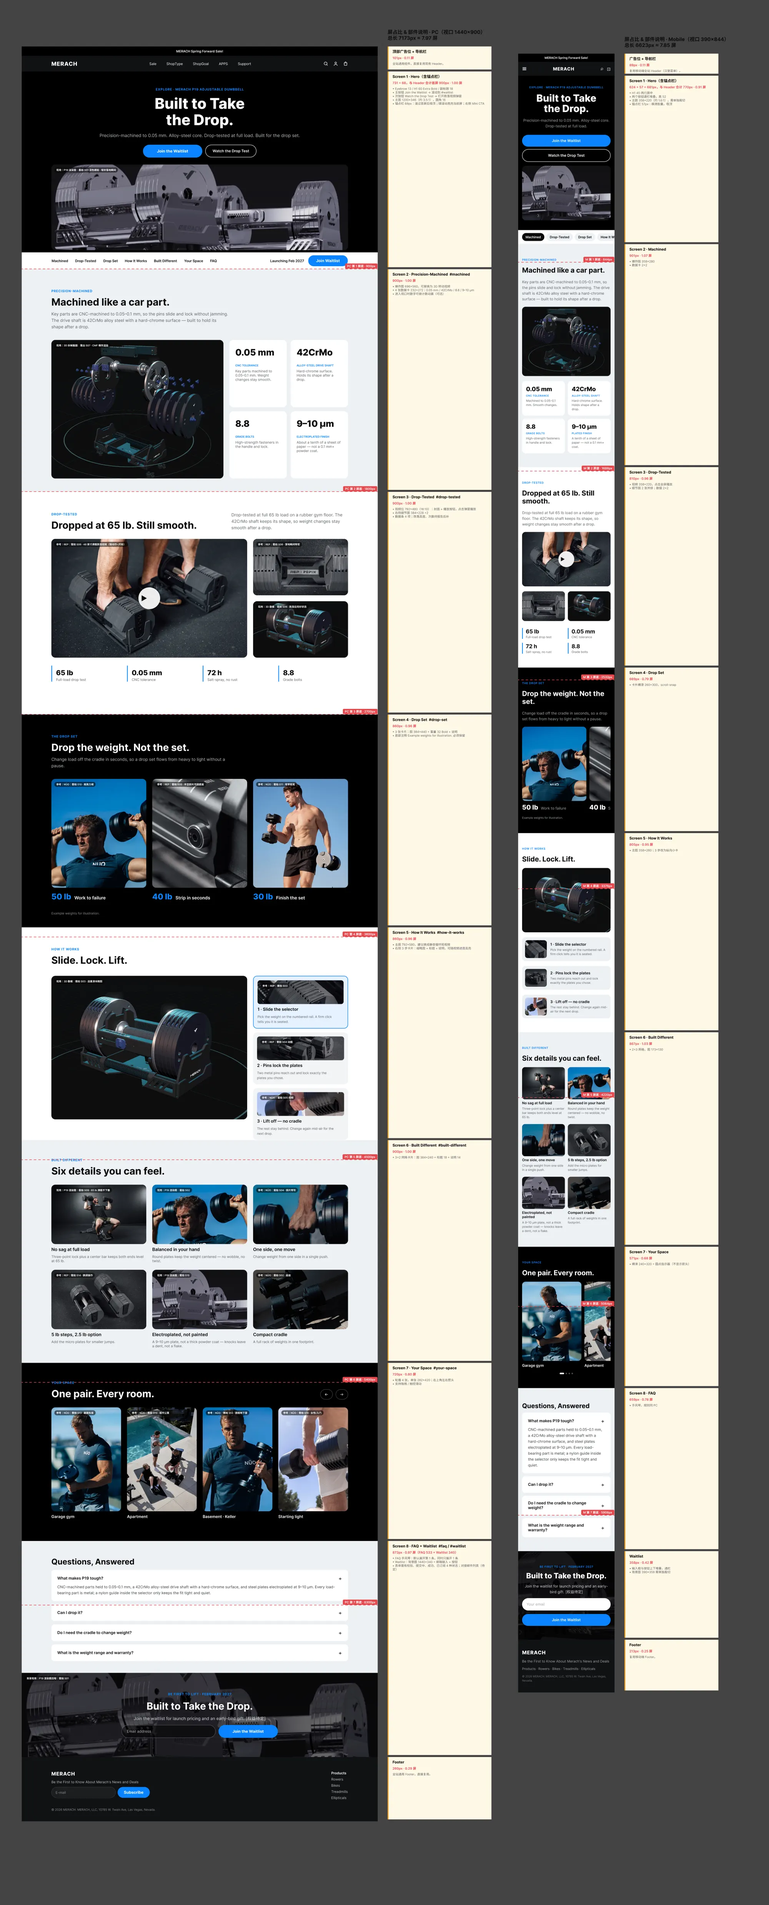
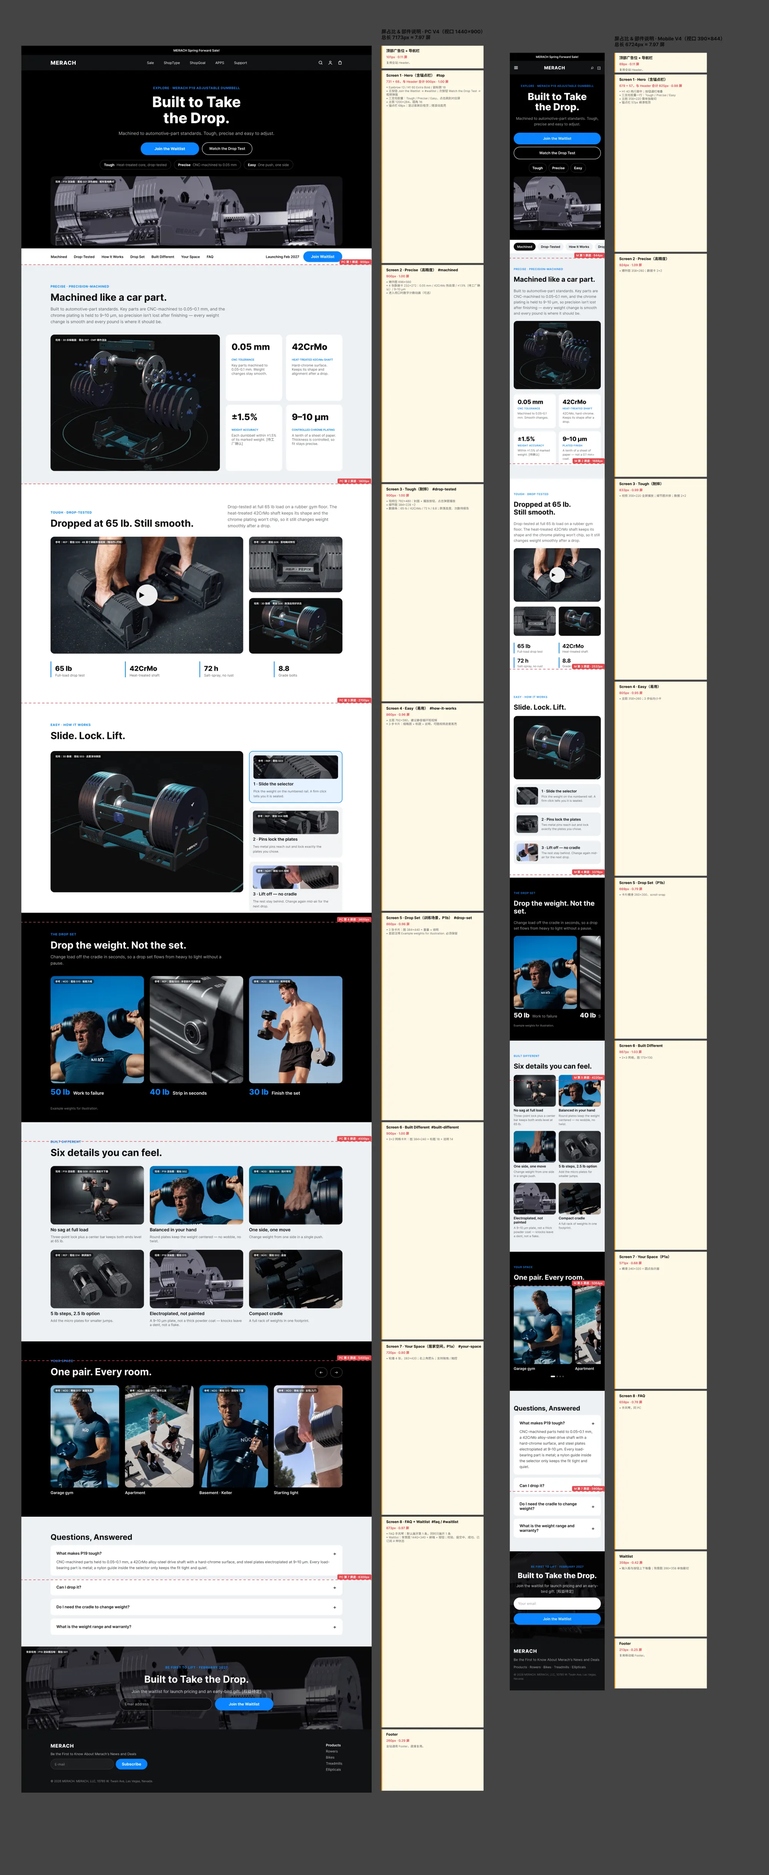
Align product page and Explore V4 with three-pillar framework; claim confirmed
Claude-Session: https://claude.ai/code/session_01RNRjNYdB2DmXKuzbHkJAw4

diff --git a/handoff.html b/handoff.html
@@ -39,27 +39,27 @@ blockquote{margin:12px 0;padding:8px 14px;border-left:3px solid var(--accent);ba
 @media (max-width:900px){.shell{grid-template-columns:1fr}.toc{display:none}main{padding:24px 18px}}
 </style></head><body>
 <header class="top"><div class="in"><b>MERACH P19</b><a href="index.html" class="">总览</a><a href="product.html" class="">产品营销方案</a><a href="imc.html" class="">整合营销方案</a><a href="comp/" class="">对标竞品参数页</a><a href="explore.html" class="">Explore 教育页</a><a href="handoff.html" class="on">开发需求</a><a href="market.html" class="">市场容量</a></div></header><div class="shell one"><main><h1>Explore 教育页 · 开发需求说明</h1>
-<p class="meta">版本 2026-11-07 · 对应 Figma <a href="https://www.figma.com/design/44z4t0SOMdf8TVVw1gtSZz/%E6%97%A0%E6%B0%A7P19?node-id=18-600" target="_blank" rel="noopener">PC V3</a> 与 <a href="https://www.figma.com/design/44z4t0SOMdf8TVVw1gtSZz/%E6%97%A0%E6%B0%A7P19?node-id=49-620" target="_blank" rel="noopener">Mobile</a>。设计稿中图片左上角的黑色标签是拍摄编号，开发时不要还原。</p>
+<p class="meta">版本 2026-11-12（V4 三支柱） · 对应 Figma <a href="https://www.figma.com/design/44z4t0SOMdf8TVVw1gtSZz/%E6%97%A0%E6%B0%A7P19?node-id=18-600" target="_blank" rel="noopener">PC V3</a> 与 <a href="https://www.figma.com/design/44z4t0SOMdf8TVVw1gtSZz/%E6%97%A0%E6%B0%A7P19?node-id=49-620" target="_blank" rel="noopener">Mobile</a>。设计稿中图片左上角的黑色标签是拍摄编号，开发时不要还原。</p>
 <h2>一、基本信息</h2>
 <ul><li>页面：P19 Explore 教育页，独立站单页，8 屏 + 页头页脚。</li>
 <li>设计基准：PC 1440 宽，内容区 1200，左右边距 120；Mobile 390 宽，左右边距 16，内容区 358。</li>
 <li>断点建议：≥1024 用 PC 布局；768–1023 内容区自适应，网格降为 2 列；&lt;768 用 Mobile 布局。</li>
 <li>屏占比口径：PC 按视口 1440×900 计 1 屏，Mobile 按 390×844 计 1 屏。</li>
-<li>英文主张 Built to Take the Drop 待确认，文案以上线前定稿为准。</li></ul>
+<li>英文主张 Built to Take the Drop 已确定。页面按“主张 → 三支柱（Tough / Precise / Easy）”组织：第 2–4 屏依次为高精度、耐摔、易用。</li></ul>
 <h2>二、屏占比</h2>
 <p>首屏（Header + Hero + 锚点栏）在 PC 端正好 1 屏；其余每屏控制在 0.6–1.1 屏，单屏不需要内部滚动。</p>
-<div class="tw"><table><thead><tr><th>模块</th><th>锚点</th><th>PC 高度 px</th><th>PC 屏占比</th><th>Mobile 高度 px</th><th>Mobile 屏占比</th></tr></thead><tbody><tr><td>Header（广告位 + 导航）</td><td>—</td><td>101</td><td>0.11</td><td>89</td><td>0.11</td></tr><tr><td>Screen 1 · Hero + 锚点栏</td><td>#top</td><td>799</td><td>0.89（与 Header 合计 1.00）</td><td>681</td><td>0.81（与 Header 合计 0.91）</td></tr><tr><td>Screen 2 · Precision-Machined</td><td>#machined</td><td>900</td><td>1.00</td><td>901</td><td>1.07</td></tr><tr><td>Screen 3 · Drop-Tested</td><td>#drop-tested</td><td>900</td><td>1.00</td><td>810</td><td>0.96</td></tr><tr><td>Screen 4 · Drop Set</td><td>#drop-set</td><td>860</td><td>0.96</td><td>669</td><td>0.79</td></tr><tr><td>Screen 5 · How It Works</td><td>#how-it-works</td><td>860</td><td>0.96</td><td>805</td><td>0.95</td></tr><tr><td>Screen 6 · Built Different</td><td>#built-different</td><td>900</td><td>1.00</td><td>867</td><td>1.03</td></tr><tr><td>Screen 7 · Your Space</td><td>#your-space</td><td>720</td><td>0.80</td><td>571</td><td>0.68</td></tr><tr><td>Screen 8 · FAQ</td><td>#faq</td><td>533</td><td>0.59</td><td>659</td><td>0.78</td></tr><tr><td>Waitlist</td><td>#waitlist</td><td>340</td><td>0.38</td><td>358</td><td>0.42</td></tr><tr><td>Footer</td><td>—</td><td>260</td><td>0.29</td><td>213</td><td>0.25</td></tr><tr><td><b>合计</b></td><td></td><td><b>7173</b></td><td><b>7.97 屏</b></td><td><b>6623</b></td><td><b>7.85 屏</b></td></tr></tbody></table></div>
+<div class="tw"><table><thead><tr><th>模块</th><th>锚点</th><th>PC 高度 px</th><th>PC 屏占比</th><th>Mobile 高度 px</th><th>Mobile 屏占比</th></tr></thead><tbody><tr><td>Header（广告位 + 导航）</td><td>—</td><td>101</td><td>0.11</td><td>89</td><td>0.11</td></tr><tr><td>Screen 1 · Hero + 三支柱 + 锚点栏</td><td>#top</td><td>799</td><td>0.89（与 Header 合计 1.00）</td><td>736</td><td>0.87（与 Header 合计 0.98）</td></tr><tr><td>Screen 2 · Precise（高精度）</td><td>#machined</td><td>900</td><td>1.00</td><td>924</td><td>1.09</td></tr><tr><td>Screen 3 · Tough（耐摔）</td><td>#drop-tested</td><td>900</td><td>1.00</td><td>833</td><td>0.99</td></tr><tr><td>Screen 4 · Easy（易用）</td><td>#how-it-works</td><td>860</td><td>0.96</td><td>805</td><td>0.95</td></tr><tr><td>Screen 5 · Drop Set（P1b）</td><td>#drop-set</td><td>860</td><td>0.96</td><td>669</td><td>0.79</td></tr><tr><td>Screen 6 · Built Different</td><td>#built-different</td><td>900</td><td>1.00</td><td>867</td><td>1.03</td></tr><tr><td>Screen 7 · Your Space（P1a）</td><td>#your-space</td><td>720</td><td>0.80</td><td>571</td><td>0.68</td></tr><tr><td>Screen 8 · FAQ</td><td>#faq</td><td>533</td><td>0.59</td><td>659</td><td>0.78</td></tr><tr><td>Waitlist</td><td>#waitlist</td><td>340</td><td>0.38</td><td>358</td><td>0.42</td></tr><tr><td>Footer</td><td>—</td><td>260</td><td>0.29</td><td>213</td><td>0.25</td></tr><tr><td><b>合计</b></td><td></td><td><b>7173</b></td><td><b>7.97 屏</b></td><td><b>6724</b></td><td><b>7.97 屏</b></td></tr></tbody></table></div>
 <h2>三、全局规范</h2>
-<h3>颜色</h3><div class="tw"><table><thead><tr><th>用途</th><th>色值</th><th>使用位置</th></tr></thead><tbody><tr><td>主色</td><td>#0A84FF</td><td>按钮、Eyebrow、链接、强调线</td></tr><tr><td>正文深色</td><td>#0B0B0C</td><td>标题</td></tr><tr><td>正文灰</td><td>#5F6368</td><td>正文、说明</td></tr><tr><td>浅灰底</td><td>#EDF0F3</td><td>Screen 2 / 6 / FAQ 背景</td></tr><tr><td>黑底</td><td>#000000</td><td>Hero、Screen 4、Screen 7</td></tr><tr><td>页头页脚</td><td>#111214</td><td>Header / Footer</td></tr></tbody></table></div>
+<h3>颜色</h3><div class="tw"><table><thead><tr><th>用途</th><th>色值</th><th>使用位置</th></tr></thead><tbody><tr><td>主色</td><td>#0A84FF</td><td>按钮、Eyebrow、链接、强调线</td></tr><tr><td>正文深色</td><td>#0B0B0C</td><td>标题</td></tr><tr><td>正文灰</td><td>#5F6368</td><td>正文、说明</td></tr><tr><td>浅灰底</td><td>#EDF0F3</td><td>Screen 2 / 6 / FAQ 背景</td></tr><tr><td>黑底</td><td>#000000</td><td>Hero、Screen 5、Screen 7</td></tr><tr><td>页头页脚</td><td>#111214</td><td>Header / Footer</td></tr></tbody></table></div>
 <h3>字号</h3><p>设计稿字体为 Inter；如独立站已有品牌字体，以站内字体为准，字号与字重按下表。</p><div class="tw"><table><thead><tr><th>层级</th><th>PC</th><th>Mobile</th></tr></thead><tbody><tr><td>H1</td><td>60 / Extra Bold</td><td>40 / Extra Bold</td></tr><tr><td>H2</td><td>40 / Bold</td><td>28 / Bold</td></tr><tr><td>Eyebrow</td><td>13 / Semi Bold，全大写，字距 8%</td><td>11 / Semi Bold</td></tr><tr><td>正文</td><td>17 / Regular，行高 150%</td><td>15 / Regular</td></tr><tr><td>说明</td><td>14 / Regular</td><td>12 / Regular</td></tr><tr><td>按钮</td><td>15 / Semi Bold，高 52，全圆角</td><td>同 PC，通栏</td></tr></tbody></table></div>
 <p>圆角：图片 14–16，卡片 14–16，按钮全圆角。屏与屏之间不留间距，靠背景色区分。</p>
 <h2>四、部件说明</h2>
-<div class="tw"><table><thead><tr><th>部件</th><th>位置</th><th>PC</th><th>Mobile</th><th>交互与状态</th></tr></thead><tbody><tr><td>顶部广告位 / 导航栏</td><td>全站</td><td>复用现有 Header</td><td>复用移动端 Header（汉堡菜单）</td><td>不新开发</td></tr><tr><td>Hero</td><td>Screen 1</td><td>Eyebrow 13 + H1 60 + 副标题 18 + 双按钮 + 主图 1200×346</td><td>H1 40 两行居中，按钮通栏堆叠</td><td>主按钮滚动到 #waitlist；次按钮打开跌落视频弹窗</td></tr><tr><td>锚点栏（Section Nav）</td><td>Hero 下方</td><td>高 68，7 个锚点 + 右侧上市时间与 Mini CTA</td><td>高 57，横滑胶囊</td><td>滚过 Hero 后吸顶；随滚动高亮当前屏（scrollspy）；点击平滑滚动，需扣除吸顶高度</td></tr><tr><td>数据卡</td><td>Screen 2</td><td>2×2，单卡 232×272，白底圆角 16</td><td>2×2，宽度均分</td><td>可选：进入视口时数字计数动画</td></tr><tr><td>视频位</td><td>Screen 3</td><td>792×480（16:10），封面 + 播放按钮</td><td>358×220</td><td>点击弹窗播放（移动端全屏）；关闭后停止播放；不自动带声播放</td></tr><tr><td>数据条</td><td>Screen 3</td><td>4 项横排，左侧 3px 蓝色竖线</td><td>2×2</td><td>静态</td></tr><tr><td>重量卡片</td><td>Screen 4</td><td>3 列，图 384×440</td><td>横滑 260×300，scroll-snap</td><td>底部注释必须保留</td></tr><tr><td>步骤卡</td><td>Screen 5</td><td>主图 792×580 + 右侧 3 步</td><td>主图 358×260 + 纵向 3 步</td><td>主图建议用静音循环视频；可随视频进度高亮步骤</td></tr><tr><td>卖点卡</td><td>Screen 6</td><td>3×2，图 384×240</td><td>2×3，图 173×130</td><td>静态</td></tr><tr><td>场景轮播</td><td>Screen 7</td><td>4 张，单张 282×420，右上角箭头</td><td>横滑 240×320 + 圆点指示器</td><td>支持拖拽与触控滑动；不自动轮播</td></tr><tr><td>FAQ 手风琴</td><td>Screen 8</td><td>宽 1200</td><td>通栏</td><td>默认展开第 1 条；同时只展开 1 条；FAQ 内容输出 FAQPage 结构化数据</td></tr><tr><td>Waitlist 表单</td><td>Waitlist</td><td>背景图 1440×340，输入框 380 + 按钮 240 横排</td><td>输入框与按钮上下堆叠</td><td>邮箱格式校验；状态：默认 / 提交中 / 成功 / 已订阅 / 失败；对接邮件列表（待定）</td></tr><tr><td>Footer</td><td>全站</td><td>复用</td><td>复用</td><td>不新开发</td></tr></tbody></table></div>
+<div class="tw"><table><thead><tr><th>部件</th><th>位置</th><th>PC</th><th>Mobile</th><th>交互与状态</th></tr></thead><tbody><tr><td>顶部广告位 / 导航栏</td><td>全站</td><td>复用现有 Header</td><td>复用移动端 Header（汉堡菜单）</td><td>不新开发</td></tr><tr><td>Hero</td><td>Screen 1</td><td>Eyebrow 13 + H1 60 + 副标题 18 + 双按钮 + 三支柱胶囊 + 主图 1200×284</td><td>H1 40 两行居中，按钮通栏堆叠，三支柱胶囊一行</td><td>主按钮滚动到 #waitlist；次按钮打开跌落视频弹窗；三支柱胶囊分别跳到 #drop-tested、#machined、#how-it-works</td></tr><tr><td>锚点栏（Section Nav）</td><td>Hero 下方</td><td>高 68，7 个锚点 + 右侧上市时间与 Mini CTA</td><td>高 57，横滑胶囊</td><td>滚过 Hero 后吸顶；随滚动高亮当前屏（scrollspy）；点击平滑滚动，需扣除吸顶高度</td></tr><tr><td>数据卡</td><td>Screen 2</td><td>2×2，单卡 232×272，白底圆角 16：0.05 mm / 42CrMo 热处理 / ±1.5%（待确认）/ 9–10 μm</td><td>2×2，宽度均分</td><td>可选：进入视口时数字计数动画</td></tr><tr><td>视频位</td><td>Screen 3</td><td>792×480（16:10），封面 + 播放按钮</td><td>358×220</td><td>点击弹窗播放（移动端全屏）；关闭后停止播放；不自动带声播放</td></tr><tr><td>数据条</td><td>Screen 3</td><td>4 项横排，左侧 3px 蓝色竖线：65 lb / 42CrMo / 72 h / 8.8</td><td>2×2</td><td>静态</td></tr><tr><td>重量卡片</td><td>Screen 5</td><td>3 列，图 384×440</td><td>横滑 260×300，scroll-snap</td><td>底部注释必须保留</td></tr><tr><td>步骤卡</td><td>Screen 4</td><td>主图 792×580 + 右侧 3 步</td><td>主图 358×260 + 纵向 3 步</td><td>主图建议用静音循环视频；可随视频进度高亮步骤</td></tr><tr><td>卖点卡</td><td>Screen 6</td><td>3×2，图 384×240</td><td>2×3，图 173×130</td><td>静态</td></tr><tr><td>场景轮播</td><td>Screen 7</td><td>4 张，单张 282×420，右上角箭头</td><td>横滑 240×320 + 圆点指示器</td><td>支持拖拽与触控滑动；不自动轮播</td></tr><tr><td>FAQ 手风琴</td><td>Screen 8</td><td>宽 1200</td><td>通栏</td><td>默认展开第 1 条；同时只展开 1 条；FAQ 内容输出 FAQPage 结构化数据</td></tr><tr><td>Waitlist 表单</td><td>Waitlist</td><td>背景图 1440×340，输入框 380 + 按钮 240 横排</td><td>输入框与按钮上下堆叠</td><td>邮箱格式校验；状态：默认 / 提交中 / 成功 / 已订阅 / 失败；对接邮件列表（待定）</td></tr><tr><td>Footer</td><td>全站</td><td>复用</td><td>复用</td><td>不新开发</td></tr></tbody></table></div>
 <h2>五、图片与视频位</h2>
 <p>请按下表尺寸出 2 倍图，格式 WebP；视频提供 MP4（H.264）与封面图。当前全部为占位图，上线前替换为实拍。</p>
-<div class="tw"><table><thead><tr><th>图位</th><th>PC 尺寸</th><th>Mobile 尺寸</th><th>当前占位</th><th>备注</th></tr></thead><tbody><tr><td>hero</td><td>1200×346（≈3.5:1）</td><td>358×220（≈1.6:1）</td><td>P19 渲染图</td><td>两端需分别裁切</td></tr><tr><td>explode</td><td>696×560</td><td>358×280</td><td>P19 3D 爆炸图</td><td>可换 3D 转动视频</td></tr><tr><td>drop_video</td><td>792×480 封面 + 视频</td><td>358×220</td><td>REP 参考图</td><td>需拍：满载跌落视频</td></tr><tr><td>drop_detail / drop_after</td><td>384×228 ×2</td><td>173×120 ×2</td><td>REP 参考图 / 渲染图</td><td>需拍：跌落细节与跌落后状态</td></tr><tr><td>ds1–ds3</td><td>384×440 ×3</td><td>260×300 ×3</td><td>NÜO 参考图</td><td>需拍：递减组 3 个重量</td></tr><tr><td>how_main</td><td>792×580</td><td>358×260</td><td>参考图</td><td>建议拍静音循环短视频</td></tr><tr><td>how1–how3</td><td>352×96 ×3</td><td>88×72 ×3</td><td>参考图</td><td>需拍：三步特写</td></tr><tr><td>bd1–bd6</td><td>384×240 ×6</td><td>173×130 ×6</td><td>参考图 / 渲染图</td><td>需拍：6 个细节</td></tr><tr><td>ls1–ls4</td><td>282×420 ×4</td><td>240×320 ×4</td><td>NÜO 参考图</td><td>需拍：车库、公寓、地下室、入门场景</td></tr><tr><td>waitlist bg</td><td>1440×340</td><td>390×358</td><td>参考图</td><td>两端需分别裁切；文字区需压暗</td></tr></tbody></table></div>
+<div class="tw"><table><thead><tr><th>图位</th><th>PC 尺寸</th><th>Mobile 尺寸</th><th>当前占位</th><th>备注</th></tr></thead><tbody><tr><td>hero</td><td>1200×284（≈4.2:1）</td><td>358×220（≈1.6:1）</td><td>P19 渲染图</td><td>两端需分别裁切</td></tr><tr><td>explode</td><td>696×560</td><td>358×280</td><td>P19 3D 爆炸图</td><td>可换 3D 转动视频</td></tr><tr><td>drop_video</td><td>792×480 封面 + 视频</td><td>358×220</td><td>REP 参考图</td><td>需拍：满载跌落视频</td></tr><tr><td>drop_detail / drop_after</td><td>384×228 ×2</td><td>173×120 ×2</td><td>REP 参考图 / 渲染图</td><td>需拍：跌落细节与跌落后状态</td></tr><tr><td>ds1–ds3</td><td>384×440 ×3</td><td>260×300 ×3</td><td>NÜO 参考图</td><td>需拍：递减组 3 个重量</td></tr><tr><td>how_main</td><td>792×580</td><td>358×260</td><td>参考图</td><td>建议拍静音循环短视频</td></tr><tr><td>how1–how3</td><td>352×96 ×3</td><td>88×72 ×3</td><td>参考图</td><td>需拍：三步特写</td></tr><tr><td>bd1–bd6</td><td>384×240 ×6</td><td>173×130 ×6</td><td>参考图 / 渲染图</td><td>需拍：6 个细节</td></tr><tr><td>ls1–ls4</td><td>282×420 ×4</td><td>240×320 ×4</td><td>NÜO 参考图</td><td>需拍：车库、公寓、地下室、入门场景</td></tr><tr><td>waitlist bg</td><td>1440×340</td><td>390×358</td><td>参考图</td><td>两端需分别裁切；文字区需压暗</td></tr></tbody></table></div>
 <h2>六、待确认</h2>
-<ul><li>英文主张：Built to Take the Drop（待副总确认）。</li>
+<ul><li>Screen 2 数据卡“±1.5% 重量精度”：待工厂确认实测数据，未确认前不得上线。</li>
 <li>跌落测试高度与次数：待正式报告，确认后补入 Screen 3 数据条。</li>
 <li>质保年限与是否覆盖跌落：待确认后补入 FAQ。</li>
 <li>Waitlist 对接的邮件列表与早鸟权益文案：待定。</li></ul>

diff --git a/explore.html b/explore.html
@@ -39,15 +39,15 @@ blockquote{margin:12px 0;padding:8px 14px;border-left:3px solid var(--accent);ba
 @media (max-width:900px){.shell{grid-template-columns:1fr}.toc{display:none}main{padding:24px 18px}}
 </style></head><body>
 <header class="top"><div class="in"><b>MERACH P19</b><a href="index.html" class="">总览</a><a href="product.html" class="">产品营销方案</a><a href="imc.html" class="">整合营销方案</a><a href="comp/" class="">对标竞品参数页</a><a href="explore.html" class="on">Explore 教育页</a><a href="handoff.html" class="">开发需求</a><a href="market.html" class="">市场容量</a></div></header>
-<div class="shell one"><main><h1>Explore 教育页 · PC V3 + Mobile</h1><p class="meta">11/7 优化版；英文主张 Built to Take the Drop 待副总确认。无实拍处暂用 REP、NÜO 官网图与 P19 渲染图，左上角标注需拍编号，上线前全部替换。</p>
-<p>源文件：<a href="https://www.figma.com/design/44z4t0SOMdf8TVVw1gtSZz/%E6%97%A0%E6%B0%A7P19?node-id=18-600" target="_blank" rel="noopener">Figma PC</a> · <a href="https://www.figma.com/design/44z4t0SOMdf8TVVw1gtSZz/%E6%97%A0%E6%B0%A7P19?node-id=49-620" target="_blank" rel="noopener">Figma Mobile</a>；拍摄清单见 <a href="product.html#六explore-教育页与拍摄清单">产品营销方案第六部分</a>。</p>
-<h2>本轮优化</h2>
+<div class="shell one"><main><h1>Explore 教育页 · V4（PC + Mobile）</h1><p class="meta">11/12 二审后版本；英文主张 Built to Take the Drop 已确定。无实拍处暂用 REP、NÜO 官网图与 P19 渲染图，左上角标注需拍编号，上线前全部替换。</p>
+<p>源文件：<a href="https://www.figma.com/design/44z4t0SOMdf8TVVw1gtSZz/%E6%97%A0%E6%B0%A7P19?node-id=18-600" target="_blank" rel="noopener">Figma PC</a> · <a href="https://www.figma.com/design/44z4t0SOMdf8TVVw1gtSZz/%E6%97%A0%E6%B0%A7P19?node-id=49-620" target="_blank" rel="noopener">Figma Mobile</a>；屏占比与部件说明见 <a href="handoff.html">开发需求</a>；拍摄清单见 <a href="product.html#六explore-教育页与拍摄清单">产品营销方案第六部分</a>。</p>
+<h2>页面结构</h2>
 <ul>
-<li>工艺屏：长段落压缩为两句；右侧改为 4 张数据卡（0.05 mm / 42CrMo / 8.8 级螺栓 / 9–10 μm 电镀），去掉与 P19 无关的竞品细节图。</li>
-<li>跌落屏：标题改为 Dropped at 65 lb. Still smooth.；补全播放按钮；数据条去掉「48 in.」「[X]-yr」等占位，改用已确认数据。跌落高度、次数待正式报告后补回。</li>
-<li>首屏：副标题不再断行，主图加圆角并与锚点栏留出间距。</li>
-<li>全页内容屏统一左对齐；「Balanced in your hand」配图换成手持图。</li>
-<li>新增 Mobile 版（390 宽）：单列排布，锚点栏、Drop Set、Your Space 改为横滑，数据卡 2×2。</li>
+<li>首屏：Built to Take the Drop.；副标题“按汽车零部件的工艺标准制造”；下方三个胶囊点出 Tough / Precise / Easy。</li>
+<li>第 2 屏 Precise：0.05 mm、42CrMo 热处理、±1.5% 重量精度（待工厂确认）、9–10 μm 镀层。</li>
+<li>第 3 屏 Tough：跌落测试 + 热处理传动轴 + 镀铬不掉漆。</li>
+<li>第 4 屏 Easy：Slide. Lock. Lift.；第 5 屏为 P1b 递减组训练场景；第 7 屏为 P1a 居家空间。</li>
+<li>PC 全长 7,173px（约 8 屏，首屏正好 900px）；Mobile 全长 6,724px（约 8 屏，首屏 825px）。</li>
 </ul>
 <div style="display:grid;grid-template-columns:minmax(0,3fr) minmax(0,1fr);gap:24px;align-items:start">
 <figure style="margin:0"><figcaption><b>PC</b></figcaption><img src="assets/explore-pc-v3.webp" alt="P19 Explore 教育页 PC 整页截图" loading="lazy"></figure>

diff --git a/index.html b/index.html
@@ -39,4 +39,4 @@ blockquote{margin:12px 0;padding:8px 14px;border-left:3px solid var(--accent);ba
 @media (max-width:900px){.shell{grid-template-columns:1fr}.toc{display:none}main{padding:24px 18px}}
 </style></head><body>
 <header class="top"><div class="in"><b>MERACH P19</b><a href="index.html" class="on">总览</a><a href="product.html" class="">产品营销方案</a><a href="imc.html" class="">整合营销方案</a><a href="comp/" class="">对标竞品参数页</a><a href="explore.html" class="">Explore 教育页</a><a href="handoff.html" class="">开发需求</a><a href="market.html" class="">市场容量</a></div></header>
-<div class="shell one"><main><style>.cards{display:grid;grid-template-columns:repeat(auto-fit,minmax(min(100%,300px),1fr));gap:14px;margin-top:24px}.card{display:block;border:1px solid var(--line);border-radius:8px;padding:18px;text-decoration:none;color:var(--fg)}.card:hover{border-color:var(--accent)}.card b{display:block;font-size:16px;margin-bottom:4px}.card span{font-size:13px;color:var(--muted)}</style><h1>MERACH P19 上市资料</h1><p class="meta">MRK-65LB 可调哑铃 · 2027 年 2 月美国、德国上市 · 独立站与 Amazon · 资料更新于 2026-11-06</p><div class="cards"><a class="card" href="comp/"><b>对标竞品参数页</b><span>16 款竞品竖排对比，价格与长度按重量归一化，含产品图、官网与质保原文链接</span></a><a class="card" href="product.html"><b>产品营销方案</b><span>人群、主张、卖点金字塔、FABE、Pitch Deck、Evidence、物料与拍摄清单</span></a><a class="card" href="imc.html"><b>整合营销方案</b><span>Big Idea、阶段划分、竞品打法、节奏表、Media Plan、广告策略、Campaign Playbook</span></a><a class="card" href="explore.html"><b>Explore 教育页</b><span>PC 与 Mobile 整页截图、Figma 源文件</span></a><a class="card" href="handoff.html"><b>Explore 开发需求</b><span>屏占比、全局规范、部件交互说明、图片尺寸清单</span></a><a class="card" href="market.html"><b>线上市场容量</b><span>TAM / SAM / SOM 测算，首年 1 万对目标评估</span></a></div></main></div></body></html>
+<div class="shell one"><main><style>.cards{display:grid;grid-template-columns:repeat(auto-fit,minmax(min(100%,300px),1fr));gap:14px;margin-top:24px}.card{display:block;border:1px solid var(--line);border-radius:8px;padding:18px;text-decoration:none;color:var(--fg)}.card:hover{border-color:var(--accent)}.card b{display:block;font-size:16px;margin-bottom:4px}.card span{font-size:13px;color:var(--muted)}</style><h1>MERACH P19 上市资料</h1><p class="meta">MRK-65LB 可调哑铃 · 2027 年 2 月美国、德国上市 · 独立站与 Amazon · 资料更新于 2026-11-06</p><div class="cards"><a class="card" href="comp/"><b>对标竞品参数页</b><span>16 款竞品竖排对比，价格与长度按重量归一化，含产品图、官网与质保原文链接</span></a><a class="card" href="product.html"><b>产品营销方案</b><span>人群、主张、卖点金字塔、FABE、Pitch Deck、Evidence、物料与拍摄清单</span></a><a class="card" href="imc.html"><b>整合营销方案</b><span>Big Idea、阶段划分、竞品打法、节奏表、Media Plan、广告策略、Campaign Playbook</span></a><a class="card" href="explore.html"><b>Explore 教育页</b><span>V4 三支柱版：PC 与 Mobile 整页截图、Figma 源文件</span></a><a class="card" href="handoff.html"><b>Explore 开发需求</b><span>屏占比、全局规范、部件交互说明、图片尺寸清单</span></a><a class="card" href="market.html"><b>线上市场容量</b><span>TAM / SAM / SOM 测算，首年 1 万对目标评估</span></a></div></main></div></body></html>
